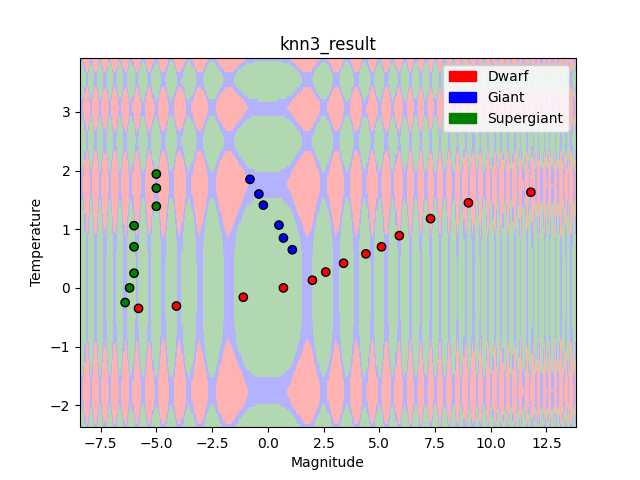
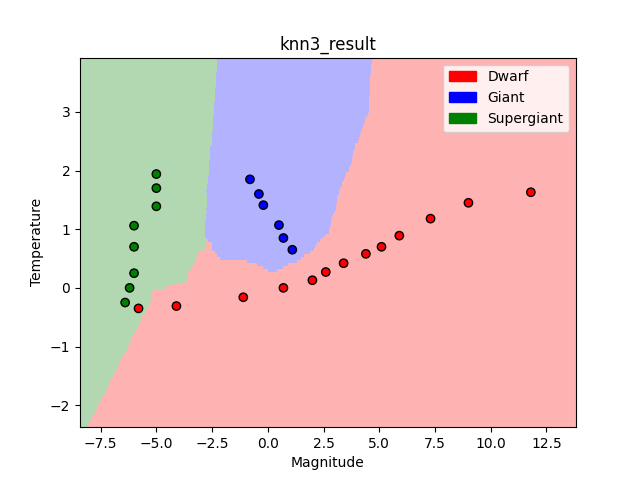
Full draft

diff --git a/HW2/T2_P3_KNNModel.py b/HW2/T2_P3_KNNModel.py
@@ -29,35 +29,32 @@ class KNNModel:
 
     # TODO: Implement this method!
     def predict(self, X_pred):
-        # The code in this method should be removed and replaced! We included it
-        # just so that the distribution code is runnable and produces a
-        # (currently meaningless) visualization.
-        y_hat = np.zeros(((X_pred.shape)[0], 1))
-        
-        # List of lists: will store the distances between every x_test point and x_0 to x_6
+        # List of lists: will store the distances between every x_test point and x_i
         k_dist = []
 
         for vec in X_pred:
             lst = []
-            for i, comparison in enumerate(X_pred):
+            for i, comparison in enumerate(self.X):
                 distance = self.__distance(vec, comparison)
                 lst.append((i, distance))
-            lst.sort(key=self.__takeSecond, reverse=True)
+            lst.sort(key=self.__takeSecond)
             k_dist.append(lst)
-
+        
+        class_list = []
         for n, lst in enumerate(k_dist):
             knn_reg = []
             for i, (j, _dist) in enumerate(lst):
                 if i < self.K:
                     knn_reg.append(self.y[j])
                 else:
-                    y_hat[n] = knn_reg
+                    class_list.append(knn_reg)
                     break
-        
-        for i, preds in enumerate(y_hat):
-            y_hat[i] = max(set(preds), key = preds.count)
 
-        return y_hat
+        y_hat = []
+        for lst in class_list:
+            y_hat.append(max(set(lst), key = lst.count))
+
+        return np.array(y_hat)
 
     # In KNN, "fitting" can be as simple as storing the data, so this has been written for you
     # If you'd like to add some preprocessing here without changing the inputs, feel free,

diff --git a/HW2/T2_P1.py b/HW2/T2_P1.py
@@ -40,19 +40,12 @@ class LogisticRegressor:
     def __sigmoid(self, z):
         return 1 / (1 + pow(np.e, -z))
     
-    # def __neg_log_loss(self, x, y):
-    #     sum = 0
-    #     for x_n, y_n in zip(x, y):
-    #         y_hat = self.predict(x_n)
-    #         sum -= y_n * np.log(y_hat) + (1 - y_n) * np.log(1 - y_hat)
-    #     return sum
-    
     def __gradient(self, x, y):
         gradients = np.array([np.zeros(len(self.W))])
         for x_n, y_n in zip(x, y):
             y_hat = self.predict(x_n)
             gradients += (y_hat - y_n) * x_n    
-        return gradients
+        return gradients / x.shape[0]
         
 
     # TODO: Optimize w using gradient descent
@@ -66,7 +59,7 @@ class LogisticRegressor:
         gradients = self.__gradient(x, y)
         for _ in range(self.runs):
             self.W = self.W - self.eta * gradients.T
-            gradients = self.__gradient(x, y)
+            gradients = self.__gradient(x, y) 
 
     # TODO: Fix this method!
     def predict(self, x):

diff --git a/HW2/T2_P3_LogisticRegression.py b/HW2/T2_P3_LogisticRegression.py
@@ -45,8 +45,9 @@ class LogisticRegression:
         reg_gradients = gradients + 2 * self.lam * self.W # 3 x 3
 
         self.loss = 0
-        self.loss = - np.sum(np.dot(one_hot_matrix, np.log(classification_probs.T)))
-        
+        for row in range((classification_probs.shape)[0]):
+            self.loss -= np.dot(one_hot_matrix[row], np.log(classification_probs[row].T))
+
         return reg_gradients
 
     # TODO: Implement this method!

diff --git a/HW2/T2_P3.py b/HW2/T2_P3.py
@@ -111,9 +111,9 @@ visualize_boundary(knn5, X, y, 'knn5_result')
 
 # Setting up some sample data
 X_test = np.array([[6, 2]])
-# y_nb1 = nb1.predict(X_test)
-# y_nb2 = nb2.predict(X_test)
-# y_lr = lr.predict(X_test)
+y_nb1 = nb1.predict(X_test)
+y_nb2 = nb2.predict(X_test)
+y_lr = lr.predict(X_test)
 y_knn1 = knn1.predict(X_test)
 y_knn3 = knn3.predict(X_test)
 y_knn5 = knn5.predict(X_test)
